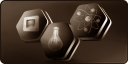
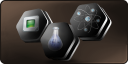
SKIN-feat-40b0.21: New colored buttons for navbar in supernova-ivash skin. Thanks to Ivash@Alpha

diff --git a/includes/constants.php b/includes/constants.php
@@ -4,7 +4,7 @@ defined('INSIDE') or die('Hacking attempt');
 
 define('DB_VERSION', '39');
 define('SN_RELEASE', '39');
-define('SN_VERSION', '40b0.20');
+define('SN_VERSION', '40b0.21');
 define('SN_RELEASE_STABLE', '39d2'); // Latest stable release
 
 // Game type constants starts with GAME_
